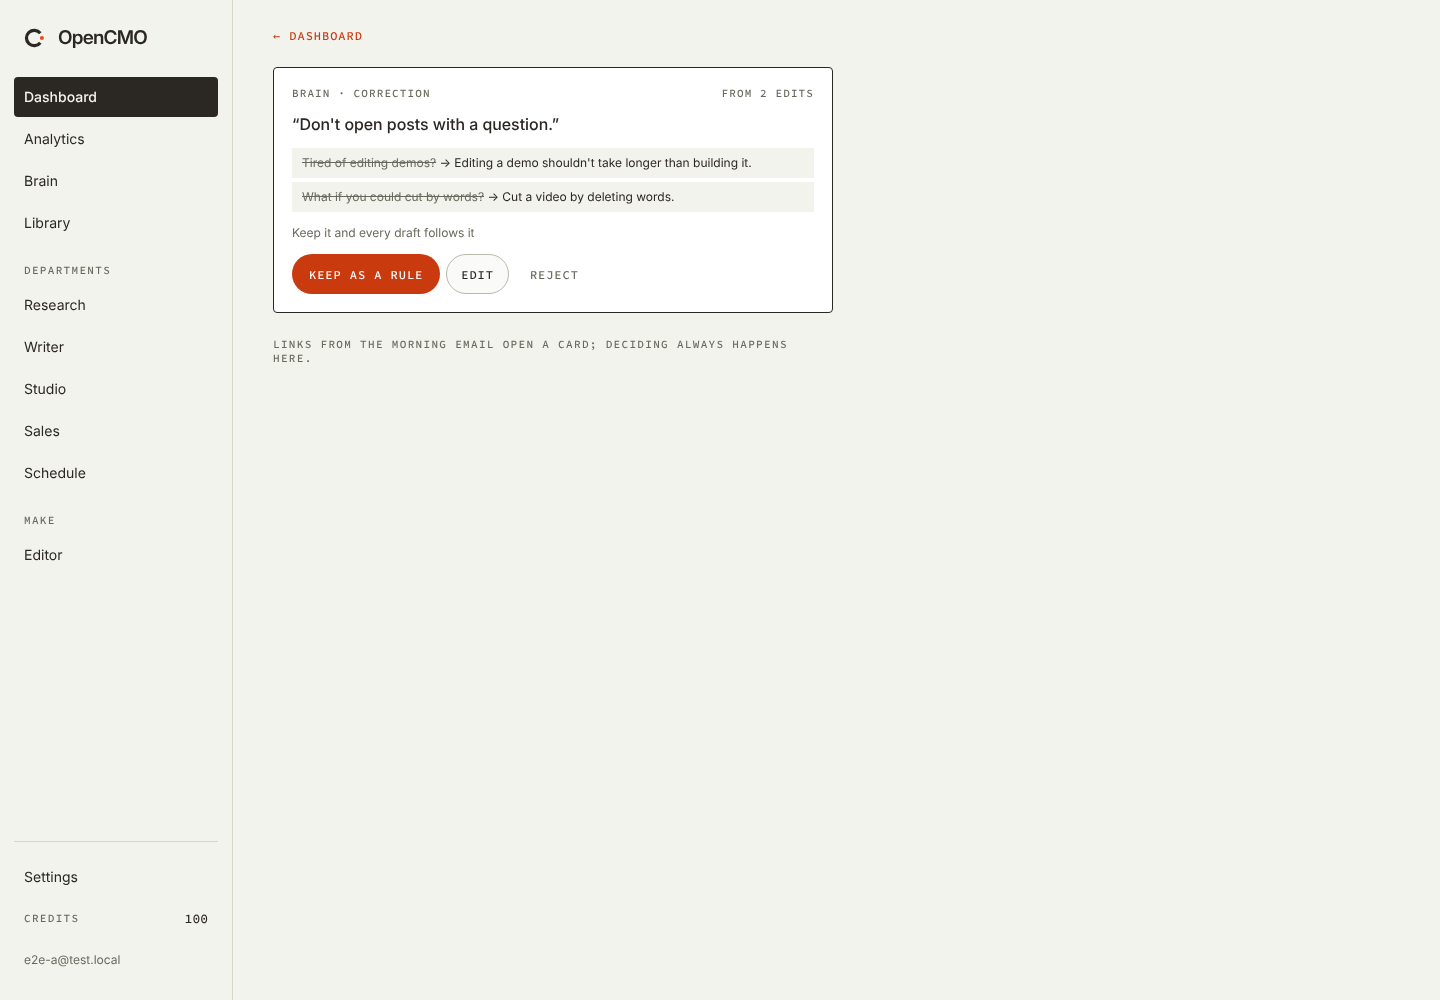
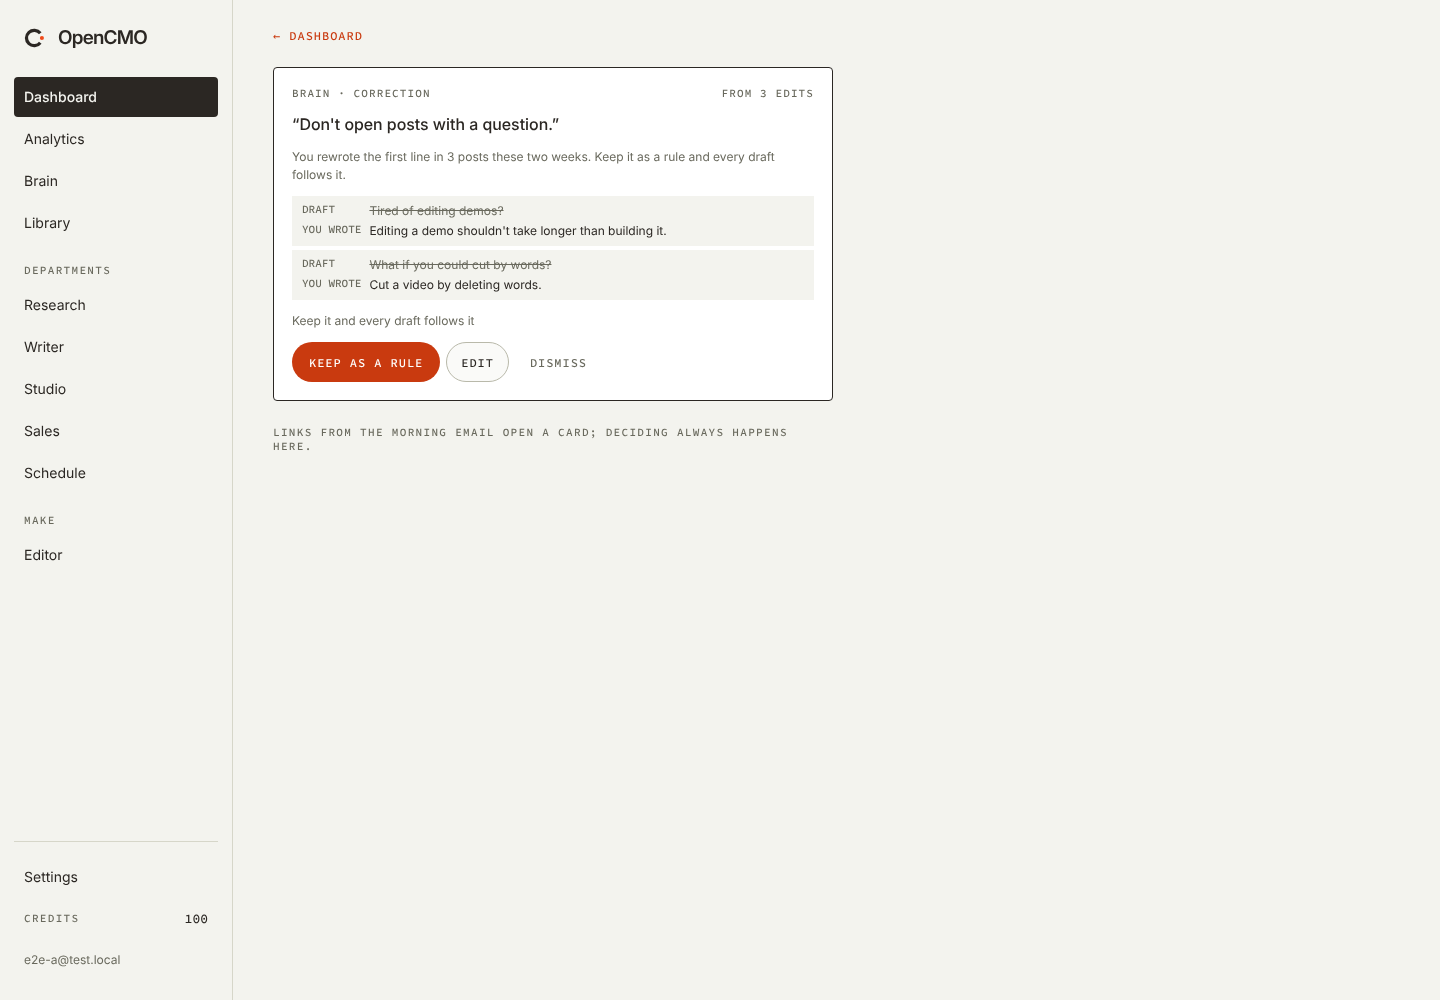
[C] C2: the correction card names the repeated edit, two examples, keep or dismiss
- The card says what the founder kept doing and how often, from A1's edit_mode and
  times; two examples labelled Draft / You wrote; Keep as a rule, Edit, Dismiss.
- e2e on live rows: three edited outcomes raise the card, a stale hash is refused,
  Dismiss rejects the rule and Keep makes it active; axe at 1440 and 390. 8/8.

Claude-Session: https://claude.ai/code/session_01NNtABMpBk1J7Twj5zPLw5R

Changed region(s): [[0.1875, 0.155, 0.5312, 0.403], [0.4688, 0.341, 0.5, 0.372], [0.1875, 0.434, 0.2188, 0.465]]

diff --git a/apps/web/e2e/ui-v2-writer.spec.ts b/apps/web/e2e/ui-v2-writer.spec.ts
@@ -1,15 +1,19 @@
+import { randomUUID } from "node:crypto";
 import { mkdirSync } from "node:fs";
 import { join } from "node:path";
 
 import AxeBuilder from "@axe-core/playwright";
 import { expect, test, type Page } from "@playwright/test";
+import { createClient, type SupabaseClient } from "@supabase/supabase-js";
 
+import type { E2EUser } from "./global-setup";
 import { signIn, state } from "./helpers";
 import { ensureOnboarded } from "./ui-v2-seed";
 
 /**
  * P3 Writer for every platform (sessions/C.md). C0: the Threads and LinkedIn post cards and the captions on the
- * Studio cards, on fixtures, at 1440 and 390 with axe. v2 build only: `npm run test:e2e:v2`.
+ * Studio cards, on fixtures, at 1440 and 390 with axe. C2: the correction card on live rows. v2 build only:
+ * `npm run test:e2e:v2`.
  */
 test.skip(process.env.NEXT_PUBLIC_OPENCMO_UI !== "v2", "v2 UI only: run with npm run test:e2e:v2");
 test.beforeAll(ensureOnboarded);
@@ -87,4 +91,83 @@ test("a caption counts its limit and hashtags per platform; too many hashtags ca
   await tiktok.getByRole("button", { name: "Save caption" }).click();
   await expect(tiktok).toContainText("Cut your demo by deleting words. #editing");
   await expect(tiktok).toContainText("#1/5");
+});
+
+// ------------------------------------------------------------------ live rows
+
+const admin = () => {
+  const { url, service } = state();
+  return createClient(url, service, { auth: { persistSession: false } });
+};
+
+/** A founder of their own per test, past Setup. */
+async function founder(db: SupabaseClient): Promise<E2EUser> {
+  const user = { email: `writer-${randomUUID()}@test.local`, password: `pw-${randomUUID()}`, id: "" };
+  const created = await db.auth.admin.createUser({ email: user.email, password: user.password, email_confirm: true });
+  expect(created.error).toBeNull();
+  user.id = created.data.user!.id;
+  const doc = await db
+    .from("marketing_documents")
+    .insert({ user_id: user.id, kind: "product", version: 1, created_by: "user", body: { name: "OpenCMO", one_liner: "An AI CMO for solo founders." } });
+  expect(doc.error).toBeNull();
+  return user;
+}
+
+/** Three X posts the founder approved after rewriting the first line: the third raises a correction card. */
+async function repeatedEdits(db: SupabaseClient, userId: string) {
+  const edits = [
+    ["Tired of editing demos?", "Editing a demo should not take longer than building it."],
+    ["What if you could cut by words?", "Cut a video by deleting words."],
+    ["Ever wished B-roll found itself?", "B-roll lands on the line you mean."],
+  ];
+  const day = new Date().toISOString().slice(0, 10);
+  for (const [index, [before, after]] of edits.entries()) {
+    const id = randomUUID();
+    const item = await db.from("content_items").insert({ id, user_id: userId, department: "post", platform: "X", day, idea: `Idea ${index}`, status: "approved", body: { text: before }, final_text: after });
+    expect(item.error).toBeNull();
+    const decidedAt = new Date(Date.now() - (3 - index) * 3_600_000).toISOString();
+    const outcome = await db
+      .from("cmo_draft_outcomes")
+      .insert({ user_id: userId, item_id: id, department: "post", action: "approve", chosen_version: 0, similarity: 0.3, edit_mode: "HOOK_REWRITTEN", classified_at: decidedAt, decided_at: decidedAt });
+    expect(outcome.error).toBeNull();
+  }
+  const { data } = await db.from("approvals").select("id, content_hash, ref_id").eq("user_id", userId).eq("kind", "correction").eq("status", "waiting").single();
+  expect(data).not.toBeNull();
+  return data as { id: string; content_hash: string; ref_id: string };
+}
+
+test("a correction card shows the repeated edit with two examples; a stale hash is refused; dismiss and keep decide it", async ({ page }) => {
+  const db = admin();
+  const user = await founder(db);
+  const card = await repeatedEdits(db, user.id);
+  await signIn(page, user);
+
+  const stale = await page.request.post(`/api/v1/approvals/${card.id}`, { data: { action: "approve", contentHash: "0".repeat(64) } });
+  expect(stale.ok()).toBeFalsy();
+  expect(JSON.stringify(await stale.json())).toMatch(/changed/);
+
+  for (const width of [1440, 390]) {
+    await page.setViewportSize({ width, height: width < 500 ? 844 : 1000 });
+    await page.goto(`/app/inbox/${card.id}`);
+    const view = page.getByTestId("inbox-card-page").getByTestId("approval-card");
+    await expect(view).toContainText("You rewrote the first line in 3 posts these two weeks.");
+    await expect(view).toContainText("from 3 edits");
+    await expect(view.getByRole("list", { name: "Your edits" }).getByRole("listitem")).toHaveCount(2);
+    await expect(view).toContainText("B-roll lands on the line you mean.");
+    await axeAndShot(page, "live-correction", width);
+  }
+  const view = page.getByTestId("inbox-card-page").getByTestId("approval-card");
+  await view.getByRole("button", { name: "Dismiss" }).click();
+  await view.getByRole("button", { name: "Dismiss" }).click();
+  await expect.poll(async () => (await db.from("cmo_corrections").select("status").eq("id", card.ref_id).single()).data?.status).toBe("rejected");
+  await expect.poll(async () => (await db.from("approvals").select("status").eq("id", card.id).single()).data?.status).toBe("skipped");
+
+  // Another founder keeps the rule: it becomes a rule every draft reads first.
+  const other = await founder(db);
+  const second = await repeatedEdits(db, other.id);
+  await page.context().clearCookies();
+  await signIn(page, other);
+  await page.goto(`/app/inbox/${second.id}`);
+  await page.getByTestId("inbox-card-page").getByRole("button", { name: "Keep as a rule" }).click();
+  await expect.poll(async () => (await db.from("cmo_corrections").select("status").eq("id", second.ref_id).single()).data?.status).toBe("active");
 });

diff --git a/apps/web/components/cards/decide.ts b/apps/web/components/cards/decide.ts
@@ -92,7 +92,7 @@ export function decidedMessage(card: ApprovalCard, decision: Decision, sample: b
     case "skip":
       return `Skipped${suffix}.`;
     case "reject":
-      return `Rejected${suffix}.`;
+      return card.kind === "correction" ? `Dismissed. Drafts stay as they are${suffix}.` : `Rejected${suffix}.`;
     case "redo":
       return `Making keyframe ${decision.index + 1} again. A new card comes when it is ready${suffix}.`;
     case "cancel":
@@ -101,6 +101,7 @@ export function decidedMessage(card: ApprovalCard, decision: Decision, sample: b
     case "send_back":
       return card.kind === "finished_video" ? `Sent back. The edit stays open in the editor${suffix}.` : `Sent back with your note${suffix}.`;
     case "edit":
+      if (card.kind === "correction") return `Kept your version of the rule. Every draft follows it${suffix}.`;
       if (card.kind === "script") return `Beat changed. The script is planned again and comes back as a new card${suffix}.`;
       return `Approved${suffix}.`;
     default:
@@ -113,6 +114,7 @@ export function decidedMessage(card: ApprovalCard, decision: Decision, sample: b
       if (card.kind === "script") return `Script approved. The keyframes are being made${suffix}.`;
       if (card.kind === "price") return `Price approved. The video is being made${suffix}.`;
       if (card.kind === "finished_video") return `Marked finished. Shorts can be cut from it${suffix}.`;
+      if (card.kind === "correction") return `Kept as a rule. Every draft follows it${suffix}.`;
       if (card.body.kind === "shorts_batch") return `Approved ${card.body.shorts.length} shorts. They are ready to schedule${suffix}.`;
       return `Approved${suffix}.`;
   }

diff --git a/apps/web/components/cards/bodies.tsx b/apps/web/components/cards/bodies.tsx
@@ -366,6 +366,17 @@ export function ScheduleBody({ body }: { body: Body<"schedule"> }) {
   );
 }
 
+/** What the founder kept doing, per edit mode (`cmo_draft_outcomes.edit_mode`). */
+const EDIT_SEEN: Record<string, string> = {
+  TOO_SALESY: "You toned down the selling",
+  WRONG_VOICE: "You rewrote drafts in your own words",
+  INVENTED_CLAIM: "You removed a claim that was not true",
+  TOO_LONG: "You cut drafts shorter",
+  HOOK_REWRITTEN: "You rewrote the first line",
+  CTA_REMOVED: "You cut the closing ask",
+  FULL_REWRITE: "You rewrote most of the draft",
+};
+
 export function CorrectionBody({
   body,
   editing,
@@ -387,11 +398,19 @@ export function CorrectionBody({
       ) : (
         <p className="v2-card-rule">“{body.rule}”</p>
       )}
+      {body.editMode && EDIT_SEEN[body.editMode] ? (
+        <p className="v2-card-meta">
+          {EDIT_SEEN[body.editMode]} in {body.times} {body.times === 1 ? "post" : "posts"} these two weeks.
+        </p>
+      ) : null}
       {body.examples.length > 0 ? (
-        <ul className="v2-card-edits">
+        <ul className="v2-card-edits" aria-label="Your edits">
           {body.examples.map((edit, index) => (
             <li key={index}>
-              <s className="v2-muted">{edit.before}</s> → {edit.after}
+              <span className="v2-card-edit-label">Draft</span>
+              <s className="v2-muted">{edit.before}</s>
+              <span className="v2-card-edit-label">You wrote</span>
+              <span>{edit.after}</span>
             </li>
           ))}
         </ul>

diff --git a/apps/web/styles/ui-v2.css b/apps/web/styles/ui-v2.css
@@ -390,7 +390,8 @@ html[data-ui="v2"] body { background: var(--v2-paper); }
 .v2-card-facts dd.v2-num { font: 500 14px var(--v2-mono); }
 .v2-card-rule { font-size: 16px; font-weight: 500; }
 .v2-card-edits { margin: 0; padding: 0; list-style: none; display: flex; flex-direction: column; gap: 4px; font-size: 12px; }
-.v2-card-edits li { padding: 6px 10px; background: var(--v2-paper); }
+.v2-card-edits li { padding: 6px 10px; background: var(--v2-paper); display: grid; grid-template-columns: max-content minmax(0, 1fr); gap: 2px 8px; }
+.v2-card-edit-label { font: 500 11px var(--v2-mono); color: var(--v2-ink2); text-transform: uppercase; }
 .v2-card-state { margin: 0; display: flex; flex-wrap: wrap; align-items: center; gap: 10px; padding: 10px 12px; font-size: 13px; }
 .v2-card-state b { font: 500 11px var(--v2-mono); text-transform: uppercase; }
 .v2-card-state.is-expired { background: var(--v2-paper3); }

diff --git a/apps/web/components/cards/ApprovalCard.tsx b/apps/web/components/cards/ApprovalCard.tsx
@@ -47,7 +47,7 @@ const DECLINE: Partial<Record<Card["kind"], { label: string; action: "skip" | "d
   price: { label: "Cancel", action: "cancel" },
   finished_video: { label: "Send back", action: "send_back" },
   shorts_batch: { label: "Send back", action: "send_back" },
-  correction: { label: "Reject", action: "reject" },
+  correction: { label: "Dismiss", action: "reject" },
 };
 
 /** A secondary action that belongs to a later phase: shown, disabled, with the reason. */

diff --git a/apps/web/components/cards/labels.ts b/apps/web/components/cards/labels.ts
@@ -65,7 +65,7 @@ export function headNote(card: ApprovalCard, now = Date.now()): string | null {
     case "schedule":
       return card.expiresAt ? untilLabel(card.expiresAt, now) : null;
     case "correction":
-      return body.examples.length ? `from ${body.examples.length} edits` : null;
+      return body.times ? `from ${body.times} ${body.times === 1 ? "edit" : "edits"}` : null;
   }
 }
 

diff --git a/docs/plans/cmo/2026-10-28-p3-sessions/C.md b/docs/plans/cmo/2026-10-28-p3-sessions/C.md
@@ -24,8 +24,12 @@ Read the frames while A0 lands → C0 → C2 (after A1) → C1 (after A3) → C3
       platform only once the approval went through), the "more" marker at a word boundary. `e2e/ui-v2-writer.spec.ts`
       7/7 with axe at 1440 and 390; screenshots in `docs/plans/cmo/2026-10-28-p3-acceptance/c/`. Live caption edits
       wait on the SQL requested in A.md (`[from C → A] Captions on the Studio cards`).
-- [ ] **C2 Correction card**: the repeated edit with two before/after examples, approve or dismiss; decided through
+- [x] **C2 Correction card**: the repeated edit with two before/after examples, approve or dismiss; decided through
       `POST /api/v1/approvals/[id]` with the card's `contentHash`.
+      Done: the card names the repeated edit and how often ("You rewrote the first line in 3 posts these two weeks"),
+      two examples labelled Draft / You wrote, Keep as a rule · Edit · Dismiss (`reject`). e2e on live rows (A1's
+      trigger raises it from three edited outcomes): a stale hash is refused, Dismiss → `rejected`, Keep → `active`;
+      axe at 1440 and 390.
 - [ ] **C1 Writer and Library live**: Writer drafts per platform (filter), Library → Voice (notes with weight and
       source, delete with confirm) and Skills (read-only list: what each is for, which agent reads it).
 - [ ] **C3 e2e** on live rows: approve a Threads draft (copy + open), delete a voice note, edit a caption on a shorts
